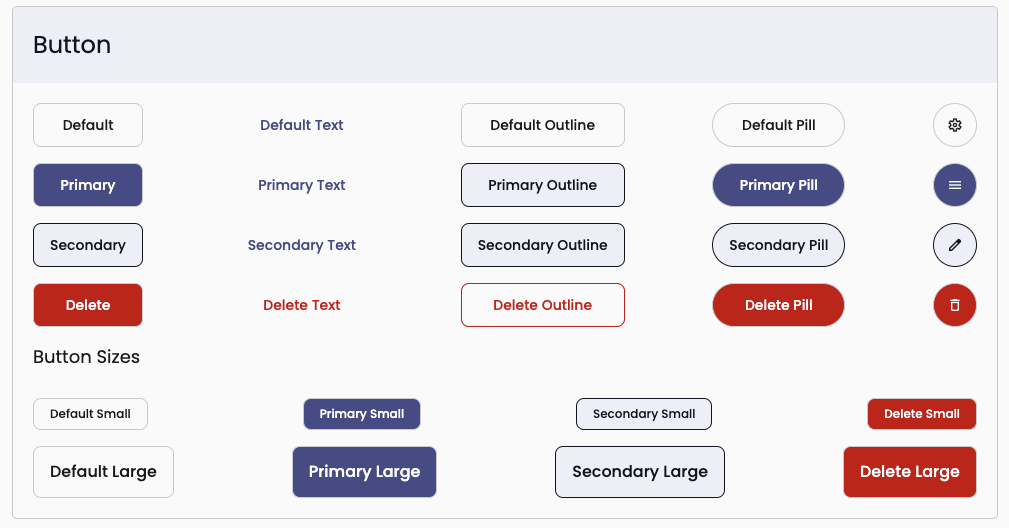
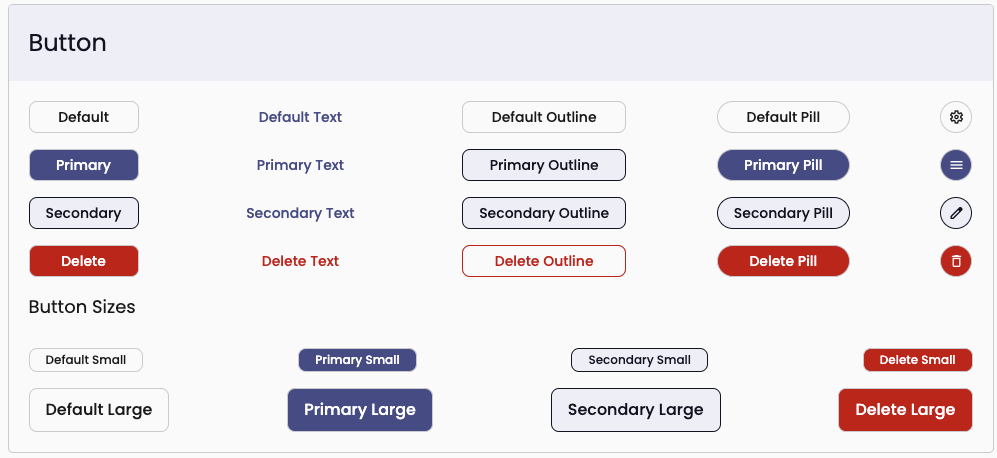
Update sizing scale

diff --git a/src/components/button.scss b/src/components/button.scss
@@ -1,7 +1,7 @@
 :root {
-  --rm-button-height-small:  calc(8 * var(--rm-space-2x-small)); // ~ 32px
-  --rm-button-height-medium: calc(11 * var(--rm-space-2x-small)); // ~ 44px
-  --rm-button-height-large:  calc(13 * var(--rm-space-2x-small)); // ~ 52px
+  --rm-button-height-small:  calc(6 * var(--rm-space-2x-small)); // ~ 24px
+  --rm-button-height-medium: calc(8 * var(--rm-space-2x-small)); // ~ 32px
+  --rm-button-height-large:  calc(11 * var(--rm-space-2x-small)); // ~ 44px
   --rm-button-transition: 120ms;
 }
 
@@ -43,7 +43,7 @@
 
   @media(max-width: $breakpoint-small) {
     align-items: center;
-    min-height: var(--rm-button-height-medium);
+    min-height: var(--rm-button-height-large);
   }
 
   &:disabled, &.btn--disabled {
